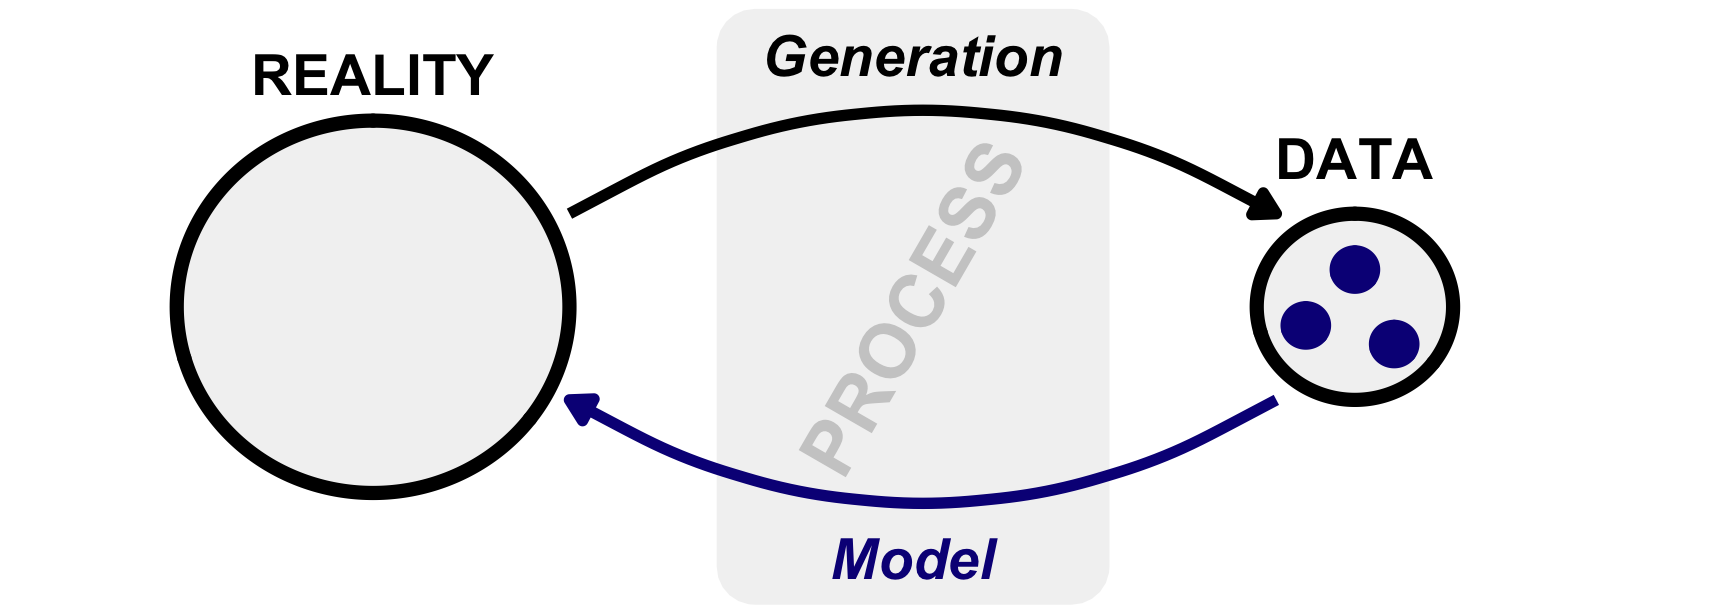
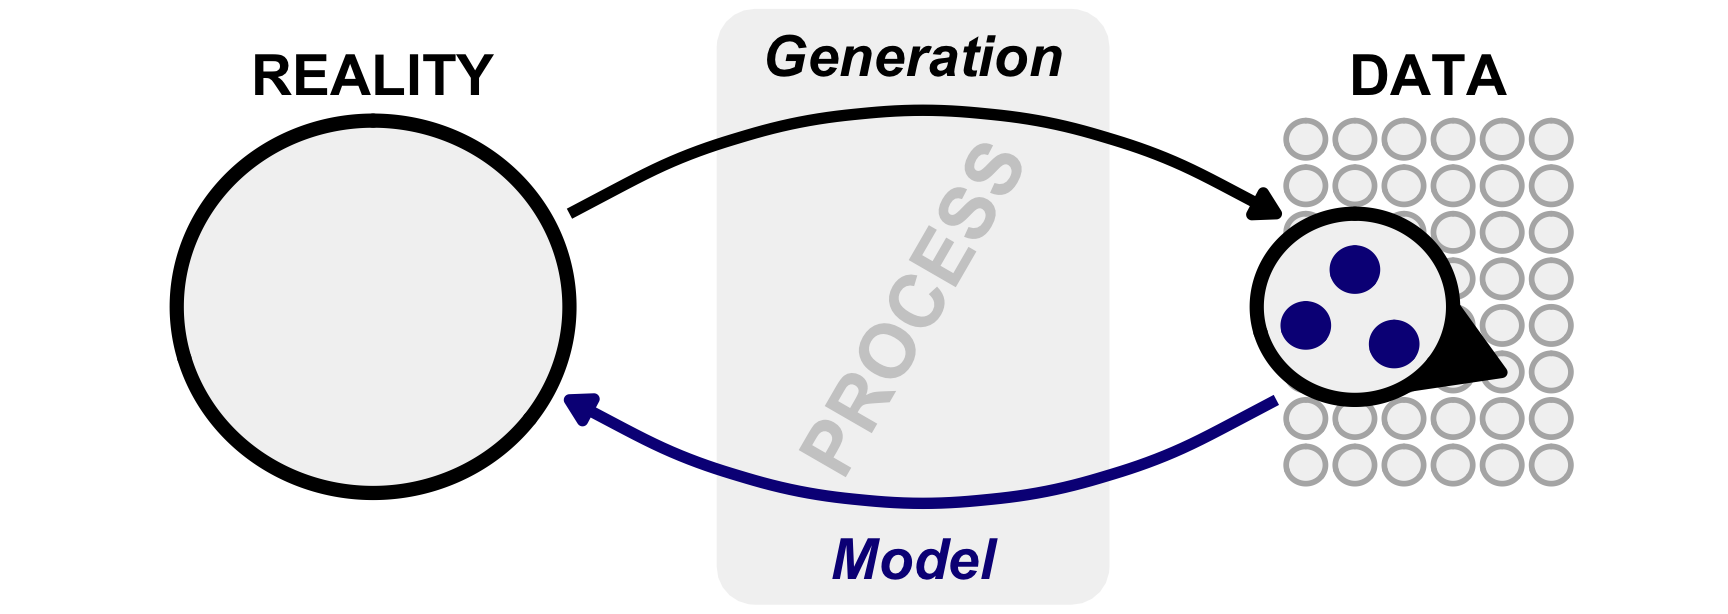
added

Changed region(s): [[0.7188, 0.1857, 0.9375, 0.8046], [0.7812, 0.0619, 0.875, 0.1547]]

diff --git a/docs/chapter-00-what-he-says.html b/docs/chapter-00-what-he-says.html
@@ -460,7 +460,7 @@ window.Quarto = {
 </header>
 
 
-<p><em>Last modified on 26. October 2026 at 13:12:02</em></p>
+<p><em>Last modified on 27. October 2026 at 13:55:29</em></p>
 <blockquote class="blockquote">
 <p><em>“A quote.” — Dan Meyer</em></p>
 </blockquote>
@@ -471,10 +471,10 @@ window.Quarto = {
 <div id="fig-what-he-says-1" class="quarto-float quarto-figure quarto-figure-center anchored" data-fig-align="center">
 <figure class="quarto-float quarto-float-fig figure">
 <div aria-describedby="fig-what-he-says-1-caption-0ceaefa1-69ba-4598-a22c-09a6ac19f8ca">
-<a href="chapter-00-what-he-says_files/figure-html/fig-what-he-says-1-1.png" class="lightbox" data-gallery="quarto-lightbox-gallery-1" title="Figure&nbsp;1.1: Statistics aim to capture an image of reality by generating data. However, the data is only a fraction of reality and a vague representation. In statistics, two main processes are important. First, data generation, and second, drawing conclusions about reality from the data using a model."><img src="chapter-00-what-he-says_files/figure-html/fig-what-he-says-1-1.png" class="img-fluid quarto-figure quarto-figure-center figure-img" width="864"></a>
+<a href="chapter-00-what-he-says_files/figure-html/fig-what-he-says-1-1.png" class="lightbox" data-gallery="quarto-lightbox-gallery-1" title="Figure&nbsp;1.1: Statistics aim to capture an image of reality by generating data. However, the data is only a fraction of reality and a vague representation. Moreover, your dataset is random, but it feels important to you. In statistics, two main processes are important. First, data generation, and second, drawing conclusions about reality from the data using a model."><img src="chapter-00-what-he-says_files/figure-html/fig-what-he-says-1-1.png" class="img-fluid quarto-figure quarto-figure-center figure-img" width="864"></a>
 </div>
 <figcaption class="quarto-float-caption-bottom quarto-float-caption quarto-float-fig" id="fig-what-he-says-1-caption-0ceaefa1-69ba-4598-a22c-09a6ac19f8ca">
-Figure&nbsp;1.1: Statistics aim to capture an image of reality by generating data. However, the data is only a fraction of reality and a vague representation. In statistics, two main processes are important. First, data generation, and second, drawing conclusions about reality from the data using a model.
+Figure&nbsp;1.1: Statistics aim to capture an image of reality by generating data. However, the data is only a fraction of reality and a vague representation. Moreover, your dataset is random, but it feels important to you. In statistics, two main processes are important. First, data generation, and second, drawing conclusions about reality from the data using a model.
 </figcaption>
 </figure>
 </div>
@@ -1057,47 +1057,48 @@ Figure&nbsp;1.2: The three geometrical shapes that most define statistics. The c
 <span id="cb1-20"><a href="#cb1-20" aria-hidden="true" tabindex="-1"></a><span class="co">#| fig-align: center</span></span>
 <span id="cb1-21"><a href="#cb1-21" aria-hidden="true" tabindex="-1"></a><span class="co">#| fig-height: 3.2</span></span>
 <span id="cb1-22"><a href="#cb1-22" aria-hidden="true" tabindex="-1"></a><span class="co">#| fig-width: 9</span></span>
-<span id="cb1-23"><a href="#cb1-23" aria-hidden="true" tabindex="-1"></a><span class="co">#| fig-cap: "Statistics aim to capture an image of reality by generating data. However, the data is only a fraction of reality and a vague representation.  In statistics, two main processes are important. First, data generation, and second, drawing conclusions about reality from the data using a model."</span></span>
+<span id="cb1-23"><a href="#cb1-23" aria-hidden="true" tabindex="-1"></a><span class="co">#| fig-cap: "Statistics aim to capture an image of reality by generating data. However, the data is only a fraction of reality and a vague representation. Moreover, your dataset is random, but it feels important to you. In statistics, two main processes are important. First, data generation, and second, drawing conclusions about reality from the data using a model."</span></span>
 <span id="cb1-24"><a href="#cb1-24" aria-hidden="true" tabindex="-1"></a><span class="co">#| label: fig-what-he-says-1</span></span>
-<span id="cb1-25"><a href="#cb1-25" aria-hidden="true" tabindex="-1"></a>p1_what_he_says</span>
-<span id="cb1-26"><a href="#cb1-26" aria-hidden="true" tabindex="-1"></a><span class="in">```</span></span>
-<span id="cb1-27"><a href="#cb1-27" aria-hidden="true" tabindex="-1"></a></span>
-<span id="cb1-30"><a href="#cb1-30" aria-hidden="true" tabindex="-1"></a><span class="in">```{r}</span></span>
-<span id="cb1-31"><a href="#cb1-31" aria-hidden="true" tabindex="-1"></a><span class="co">#| message: false</span></span>
-<span id="cb1-32"><a href="#cb1-32" aria-hidden="true" tabindex="-1"></a><span class="co">#| echo: false</span></span>
-<span id="cb1-33"><a href="#cb1-33" aria-hidden="true" tabindex="-1"></a><span class="co">#| warning: false</span></span>
-<span id="cb1-34"><a href="#cb1-34" aria-hidden="true" tabindex="-1"></a><span class="co">#| fig-align: center</span></span>
-<span id="cb1-35"><a href="#cb1-35" aria-hidden="true" tabindex="-1"></a><span class="co">#| fig-height: 2.75</span></span>
-<span id="cb1-36"><a href="#cb1-36" aria-hidden="true" tabindex="-1"></a><span class="co">#| fig-width: 9</span></span>
-<span id="cb1-37"><a href="#cb1-37" aria-hidden="true" tabindex="-1"></a><span class="co">#| fig-cap: "The three geometrical shapes that most define statistics. The circle or dot represents either a single observation or a population of many observations. This can also be interpreted as data. The line represents the model. It can be curved or straight and runs through the data points. Finally, the square describes the deviation between the observed and modelled data points. This deviation is commonly called error."</span></span>
-<span id="cb1-38"><a href="#cb1-38" aria-hidden="true" tabindex="-1"></a><span class="co">#| label: fig-what-he-says-2</span></span>
-<span id="cb1-39"><a href="#cb1-39" aria-hidden="true" tabindex="-1"></a>p2_what_he_says</span>
-<span id="cb1-40"><a href="#cb1-40" aria-hidden="true" tabindex="-1"></a><span class="in">```</span></span>
-<span id="cb1-41"><a href="#cb1-41" aria-hidden="true" tabindex="-1"></a></span>
+<span id="cb1-25"><a href="#cb1-25" aria-hidden="true" tabindex="-1"></a>p1_what_he_says </span>
+<span id="cb1-26"><a href="#cb1-26" aria-hidden="true" tabindex="-1"></a></span>
+<span id="cb1-27"><a href="#cb1-27" aria-hidden="true" tabindex="-1"></a><span class="in">```</span></span>
+<span id="cb1-28"><a href="#cb1-28" aria-hidden="true" tabindex="-1"></a></span>
+<span id="cb1-31"><a href="#cb1-31" aria-hidden="true" tabindex="-1"></a><span class="in">```{r}</span></span>
+<span id="cb1-32"><a href="#cb1-32" aria-hidden="true" tabindex="-1"></a><span class="co">#| message: false</span></span>
+<span id="cb1-33"><a href="#cb1-33" aria-hidden="true" tabindex="-1"></a><span class="co">#| echo: false</span></span>
+<span id="cb1-34"><a href="#cb1-34" aria-hidden="true" tabindex="-1"></a><span class="co">#| warning: false</span></span>
+<span id="cb1-35"><a href="#cb1-35" aria-hidden="true" tabindex="-1"></a><span class="co">#| fig-align: center</span></span>
+<span id="cb1-36"><a href="#cb1-36" aria-hidden="true" tabindex="-1"></a><span class="co">#| fig-height: 2.75</span></span>
+<span id="cb1-37"><a href="#cb1-37" aria-hidden="true" tabindex="-1"></a><span class="co">#| fig-width: 9</span></span>
+<span id="cb1-38"><a href="#cb1-38" aria-hidden="true" tabindex="-1"></a><span class="co">#| fig-cap: "The three geometrical shapes that most define statistics. The circle or dot represents either a single observation or a population of many observations. This can also be interpreted as data. The line represents the model. It can be curved or straight and runs through the data points. Finally, the square describes the deviation between the observed and modelled data points. This deviation is commonly called error."</span></span>
+<span id="cb1-39"><a href="#cb1-39" aria-hidden="true" tabindex="-1"></a><span class="co">#| label: fig-what-he-says-2</span></span>
+<span id="cb1-40"><a href="#cb1-40" aria-hidden="true" tabindex="-1"></a>p2_what_he_says</span>
+<span id="cb1-41"><a href="#cb1-41" aria-hidden="true" tabindex="-1"></a><span class="in">```</span></span>
 <span id="cb1-42"><a href="#cb1-42" aria-hidden="true" tabindex="-1"></a></span>
-<span id="cb1-43"><a href="#cb1-43" aria-hidden="true" tabindex="-1"></a><span class="fu">## Theoretical background</span></span>
-<span id="cb1-44"><a href="#cb1-44" aria-hidden="true" tabindex="-1"></a></span>
-<span id="cb1-45"><a href="#cb1-45" aria-hidden="true" tabindex="-1"></a><span class="fu">## R packages used</span></span>
-<span id="cb1-46"><a href="#cb1-46" aria-hidden="true" tabindex="-1"></a></span>
-<span id="cb1-47"><a href="#cb1-47" aria-hidden="true" tabindex="-1"></a><span class="fu">## Data</span></span>
-<span id="cb1-48"><a href="#cb1-48" aria-hidden="true" tabindex="-1"></a></span>
-<span id="cb1-49"><a href="#cb1-49" aria-hidden="true" tabindex="-1"></a><span class="fu">## Alternatives </span></span>
-<span id="cb1-50"><a href="#cb1-50" aria-hidden="true" tabindex="-1"></a></span>
-<span id="cb1-51"><a href="#cb1-51" aria-hidden="true" tabindex="-1"></a>Further tutorials and R packages on XXX</span>
-<span id="cb1-52"><a href="#cb1-52" aria-hidden="true" tabindex="-1"></a></span>
-<span id="cb1-53"><a href="#cb1-53" aria-hidden="true" tabindex="-1"></a><span class="fu">## Glossary</span></span>
-<span id="cb1-54"><a href="#cb1-54" aria-hidden="true" tabindex="-1"></a></span>
-<span id="cb1-55"><a href="#cb1-55" aria-hidden="true" tabindex="-1"></a>term</span>
-<span id="cb1-56"><a href="#cb1-56" aria-hidden="true" tabindex="-1"></a></span>
-<span id="cb1-57"><a href="#cb1-57" aria-hidden="true" tabindex="-1"></a>: what does it mean.</span>
-<span id="cb1-58"><a href="#cb1-58" aria-hidden="true" tabindex="-1"></a></span>
-<span id="cb1-59"><a href="#cb1-59" aria-hidden="true" tabindex="-1"></a><span class="fu">## The meaning of "Models of Reality" in this chapter.</span></span>
-<span id="cb1-60"><a href="#cb1-60" aria-hidden="true" tabindex="-1"></a></span>
-<span id="cb1-61"><a href="#cb1-61" aria-hidden="true" tabindex="-1"></a><span class="ss">- </span>itemize with max. 5-6 words</span>
-<span id="cb1-62"><a href="#cb1-62" aria-hidden="true" tabindex="-1"></a></span>
-<span id="cb1-63"><a href="#cb1-63" aria-hidden="true" tabindex="-1"></a><span class="fu">## Summary</span></span>
-<span id="cb1-64"><a href="#cb1-64" aria-hidden="true" tabindex="-1"></a></span>
-<span id="cb1-65"><a href="#cb1-65" aria-hidden="true" tabindex="-1"></a><span class="fu">## References {.unnumbered}</span></span>
+<span id="cb1-43"><a href="#cb1-43" aria-hidden="true" tabindex="-1"></a></span>
+<span id="cb1-44"><a href="#cb1-44" aria-hidden="true" tabindex="-1"></a><span class="fu">## Theoretical background</span></span>
+<span id="cb1-45"><a href="#cb1-45" aria-hidden="true" tabindex="-1"></a></span>
+<span id="cb1-46"><a href="#cb1-46" aria-hidden="true" tabindex="-1"></a><span class="fu">## R packages used</span></span>
+<span id="cb1-47"><a href="#cb1-47" aria-hidden="true" tabindex="-1"></a></span>
+<span id="cb1-48"><a href="#cb1-48" aria-hidden="true" tabindex="-1"></a><span class="fu">## Data</span></span>
+<span id="cb1-49"><a href="#cb1-49" aria-hidden="true" tabindex="-1"></a></span>
+<span id="cb1-50"><a href="#cb1-50" aria-hidden="true" tabindex="-1"></a><span class="fu">## Alternatives </span></span>
+<span id="cb1-51"><a href="#cb1-51" aria-hidden="true" tabindex="-1"></a></span>
+<span id="cb1-52"><a href="#cb1-52" aria-hidden="true" tabindex="-1"></a>Further tutorials and R packages on XXX</span>
+<span id="cb1-53"><a href="#cb1-53" aria-hidden="true" tabindex="-1"></a></span>
+<span id="cb1-54"><a href="#cb1-54" aria-hidden="true" tabindex="-1"></a><span class="fu">## Glossary</span></span>
+<span id="cb1-55"><a href="#cb1-55" aria-hidden="true" tabindex="-1"></a></span>
+<span id="cb1-56"><a href="#cb1-56" aria-hidden="true" tabindex="-1"></a>term</span>
+<span id="cb1-57"><a href="#cb1-57" aria-hidden="true" tabindex="-1"></a></span>
+<span id="cb1-58"><a href="#cb1-58" aria-hidden="true" tabindex="-1"></a>: what does it mean.</span>
+<span id="cb1-59"><a href="#cb1-59" aria-hidden="true" tabindex="-1"></a></span>
+<span id="cb1-60"><a href="#cb1-60" aria-hidden="true" tabindex="-1"></a><span class="fu">## The meaning of "Models of Reality" in this chapter.</span></span>
+<span id="cb1-61"><a href="#cb1-61" aria-hidden="true" tabindex="-1"></a></span>
+<span id="cb1-62"><a href="#cb1-62" aria-hidden="true" tabindex="-1"></a><span class="ss">- </span>itemize with max. 5-6 words</span>
+<span id="cb1-63"><a href="#cb1-63" aria-hidden="true" tabindex="-1"></a></span>
+<span id="cb1-64"><a href="#cb1-64" aria-hidden="true" tabindex="-1"></a><span class="fu">## Summary</span></span>
+<span id="cb1-65"><a href="#cb1-65" aria-hidden="true" tabindex="-1"></a></span>
+<span id="cb1-66"><a href="#cb1-66" aria-hidden="true" tabindex="-1"></a><span class="fu">## References {.unnumbered}</span></span>
 </code></pre></div><button title="Copy to Clipboard" class="code-copy-button" data-in-quarto-modal=""><i class="bi"></i></button></div>
 </div></div></div></div></div>
 </div> <!-- /content -->
